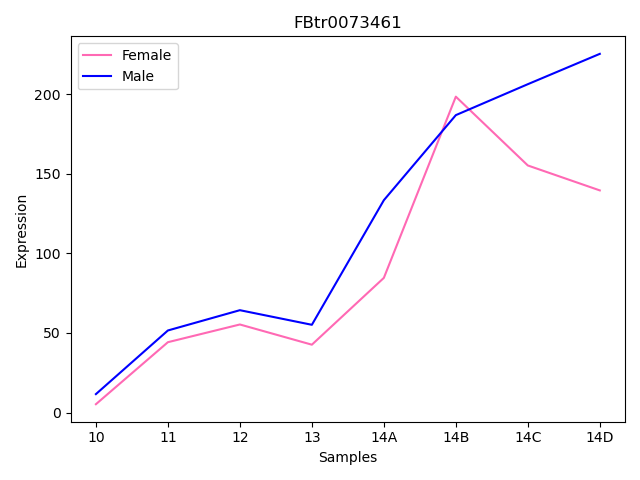
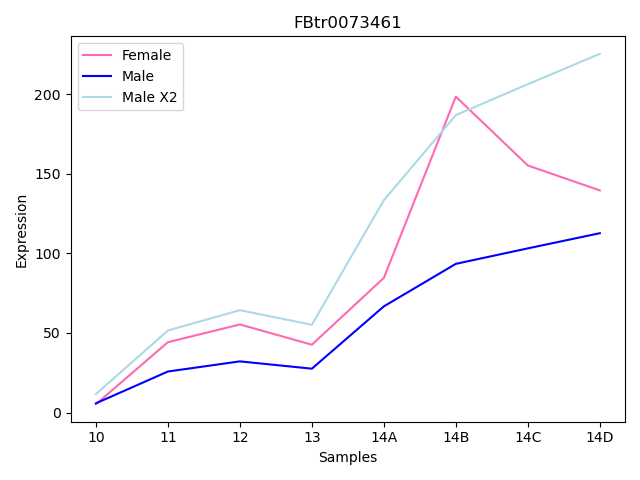
Correct graphs with all the lines

diff --git a/day2-homework/plot-sxl.py b/day2-homework/plot-sxl.py
@@ -6,30 +6,14 @@ import matplotlib.pyplot as plt
 # Get dataset to recreate Fig 3B from Lott et al 2011 PLoS Biology https://pubmed.gov/21346796
 # wget https://github.com/bxlab/cmdb-quantbio/raw/main/assignments/lab/bulk_RNA-seq/extra_data/all_annotated.csv
 
-file = open("all_annotated.csv", "r")
-lines = file.readlines()
+transcripts = np.loadtxt( "all_annotated.csv", delimiter=",", usecols=0, dtype="<U30", skiprows=1 )
+print( "transcripts: ", transcripts[0:5] )
 
-#transcripts = np.loadtxt( "all_annotated.csv", delimiter=",", usecols=0, dtype="<U30", skiprows=1 )
-#print( "transcripts: ", transcripts[0:5] )
-sample_list =[]
-data_list = []
-transcript_list =[]
-for l in (lines[0]):
-    sample_list.append(l)
-for j in lines:
-    data = lines[j]
-    data = data.rstrip("/n")
-    data_list = data.split(",")
-    data_list.append(j)
-print(sample_list)
-print(transcript_list)
-print(data_list)
+samples = np.loadtxt( "all_annotated.csv", delimiter=",", max_rows=1, dtype="<U30" )[2:]
+print( "samples: ", samples[0:5] )
 
-# samples = np.loadtxt( "all_annotated.csv", delimiter=",", max_rows=1, dtype="<U30" )[2:]
-# print( "samples: ", samples[0:5] )
-
-# data = np.loadtxt( "all_annotated.csv", delimiter=",", dtype=np.float32, skiprows=1, usecols=range(2, len(samples) + 2) )
-# print( "data: ", data[0:5, 0:5] )
+data = np.loadtxt( "all_annotated.csv", delimiter=",", dtype=np.float32, skiprows=1, usecols=range(2, len(samples) + 2) )
+print( "data: ", data[0:5, 0:5] )
 
 # Find row with transcript of interest
 for i in range(len(transcripts)):
@@ -71,7 +55,8 @@ x = ['10', '11', '12', '13', "14A", "14B", "14C", "14D"]
 fig, ax = plt.subplots()
 ax.set_title( "FBtr0073461" )
 ax.plot( x, yf, label= "Female", c ="hotpink")
-ax.plot(x, ym2, label = "Male ", c = "blue")
+ax.plot(x, ym, label = "Male", c = "blue")
+ax.plot(x, ym2, label = "Male X2", c = "lightblue")
 ax.set_ylabel("Expression")
 ax.set_xlabel("Samples")
 ax.legend()
